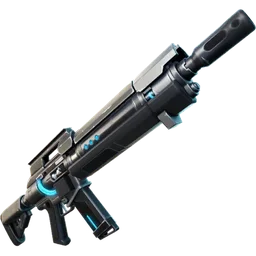
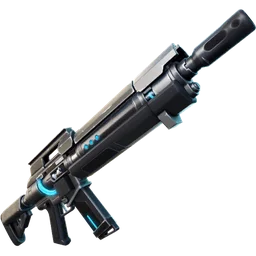
Add art for 12 more mythics and exotics
Claude-Session: https://claude.ai/code/session_016C5iyMkkRVbw6pm8N7C8jv

diff --git a/reload-tracker.html b/reload-tracker.html
@@ -206,7 +206,7 @@ footer { margin-top: 36px; display: flex; flex-wrap: wrap; gap: 10px 16px; align
     return "Rifle";
   }
   var HAS_IMG = {};
-  ["goldenapple","julesglidergun","thefoundationsriftrifle","nightrosesveiledprecisionsmg","enhancedsentinelshotgun","enhancedsurgefiresmg","enhancedtwinfireautoshotgun","enhancedonishotgun","enhancedhavocshotgun","cerberusgatekeepershotgun","sidewaysminigun","sidewaysrifle","enhancedfuryar","enhancedholotwisterar","baronsdoubledownpistol","lawlessaccelerantholotwisterar","unstablethunderclapdmr","boomsniperrifle","unstablevoltageburstpistol","lawlessexplosivemammothpistol","lawlesstrackingsniper","lawlessstinkrifle","eradicatorshocknslowlauncher","lawlessshockwaverpg","lawlessslapcannon","lawlessslapjug","exoticslapberryfizz","precisionairstrike","spicyslapperonipizza","unstableyoinkshotgun","unstablefrostfireshotgun","eradicatorshadowprecisionsmg","doubletroublepumpshotgun","lawlesstwinfireslapshotgun","heistedbreachershotgun","eradicatormarksmanwreckerrevolver","heistedexplosivear","eradicatoroxrrifle","eradicatorhoprockfuryar","brutusminigun","mythicshockwavehammer","skyesgrappler","mythicgoldfish","thefoundationspowergloves","zeushuntressdmr","kitsshockwavelauncher","lawlesstrinityar","mythicvector7dmr","twinsiphonshotgun","reconbow","mythicexcaliberrifle","korsdeadeyedmr","ringmastersboombolt","enhancedhyperburstpistol","mythictacticalpistol","conductorshandcannon","enhancedhandcannon","valeriashypersmg","midasdrumgunog","midasgildedeyedrumgun","twoshotshotgun","enhancedsweepershotgun","oscarsfrenzyautoshotgun","enhancedwreckerrevolver","thefoundationsmksevenar","nishasstrikerar","mythicpinpointpistol","overclockedpulserifle","hushsdeadeyear","hoprockcuberifle","lawlessriftrifle","reachersextendingfocusshotgun","overdrivetacticalpistol","thornesscopedburstsmg","thedub","hoprockdualies","heistedblinkmagsmg","heistedrunngunsmg","bigfootsflexsmg","hadesharbingersmg"].forEach(function (k) { HAS_IMG[k] = 1; });
+  ["goldenapple","julesglidergun","thefoundationsriftrifle","nightrosesveiledprecisionsmg","enhancedsentinelshotgun","enhancedsurgefiresmg","enhancedtwinfireautoshotgun","enhancedonishotgun","enhancedhavocshotgun","cerberusgatekeepershotgun","sidewaysminigun","sidewaysrifle","enhancedfuryar","enhancedholotwisterar","baronsdoubledownpistol","lawlessaccelerantholotwisterar","unstablethunderclapdmr","boomsniperrifle","unstablevoltageburstpistol","lawlessexplosivemammothpistol","lawlesstrackingsniper","lawlessstinkrifle","eradicatorshocknslowlauncher","lawlessshockwaverpg","lawlessslapcannon","lawlessslapjug","exoticslapberryfizz","precisionairstrike","spicyslapperonipizza","unstableyoinkshotgun","unstablefrostfireshotgun","eradicatorshadowprecisionsmg","doubletroublepumpshotgun","lawlesstwinfireslapshotgun","heistedbreachershotgun","eradicatormarksmanwreckerrevolver","heistedexplosivear","eradicatoroxrrifle","eradicatorhoprockfuryar","brutusminigun","mythicshockwavehammer","skyesgrappler","mythicgoldfish","thefoundationspowergloves","zeushuntressdmr","kitsshockwavelauncher","lawlesstrinityar","mythicvector7dmr","twinsiphonshotgun","reconbow","enhancedoxrrifle","squibblyscombatar","meowsclespeowpeowrifle","enhancedstrikerburstrifle","enhancedspirerifle","enhancedenforcerrifle","enhancedcollateraldamagear","brutenemesisar","areswarforgedar","megalodonscombatshotgun","brutustwinhammershotguns","shadowtracker","mythicexcaliberrifle","korsdeadeyedmr","ringmastersboombolt","enhancedhyperburstpistol","mythictacticalpistol","conductorshandcannon","enhancedhandcannon","valeriashypersmg","midasdrumgunog","midasgildedeyedrumgun","twoshotshotgun","enhancedsweepershotgun","oscarsfrenzyautoshotgun","enhancedwreckerrevolver","thefoundationsmksevenar","nishasstrikerar","mythicpinpointpistol","overclockedpulserifle","hushsdeadeyear","hoprockcuberifle","lawlessriftrifle","reachersextendingfocusshotgun","overdrivetacticalpistol","thornesscopedburstsmg","thedub","hoprockdualies","heistedblinkmagsmg","heistedrunngunsmg","bigfootsflexsmg","hadesharbingersmg"].forEach(function (k) { HAS_IMG[k] = 1; });
   function initials(n) {
     var w = n.replace(/\(.*?\)/g, "").split(/\s+/).filter(function (x) { return !/^(the|of|n|'n')$/i.test(x); });
     var s = (w[0] || "?")[0] + ((w[1] || "")[0] || "");
